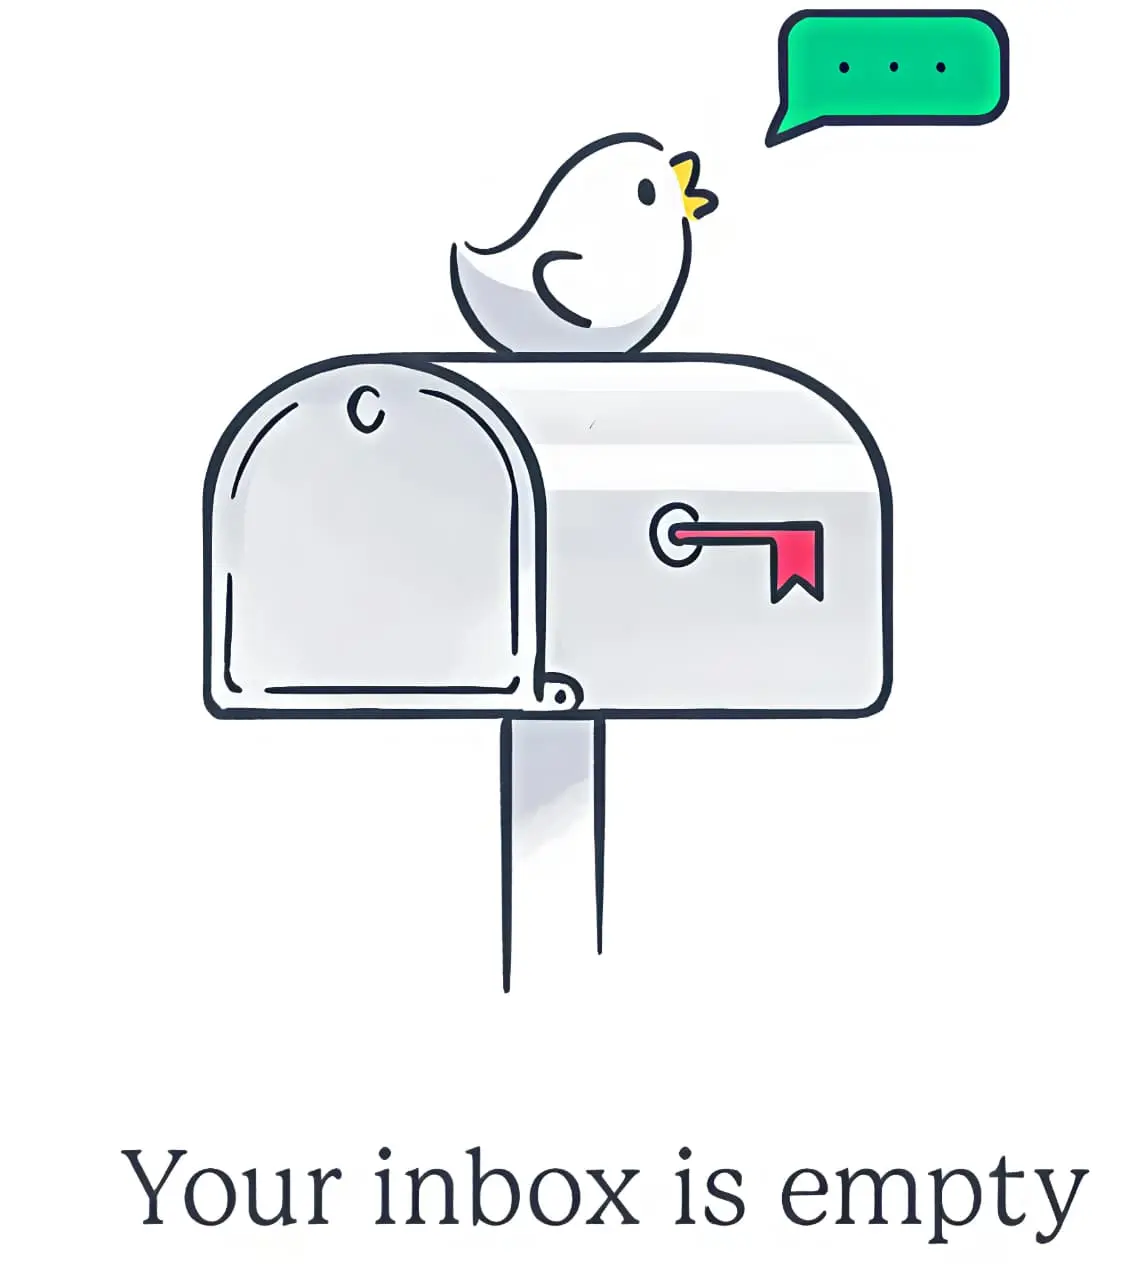
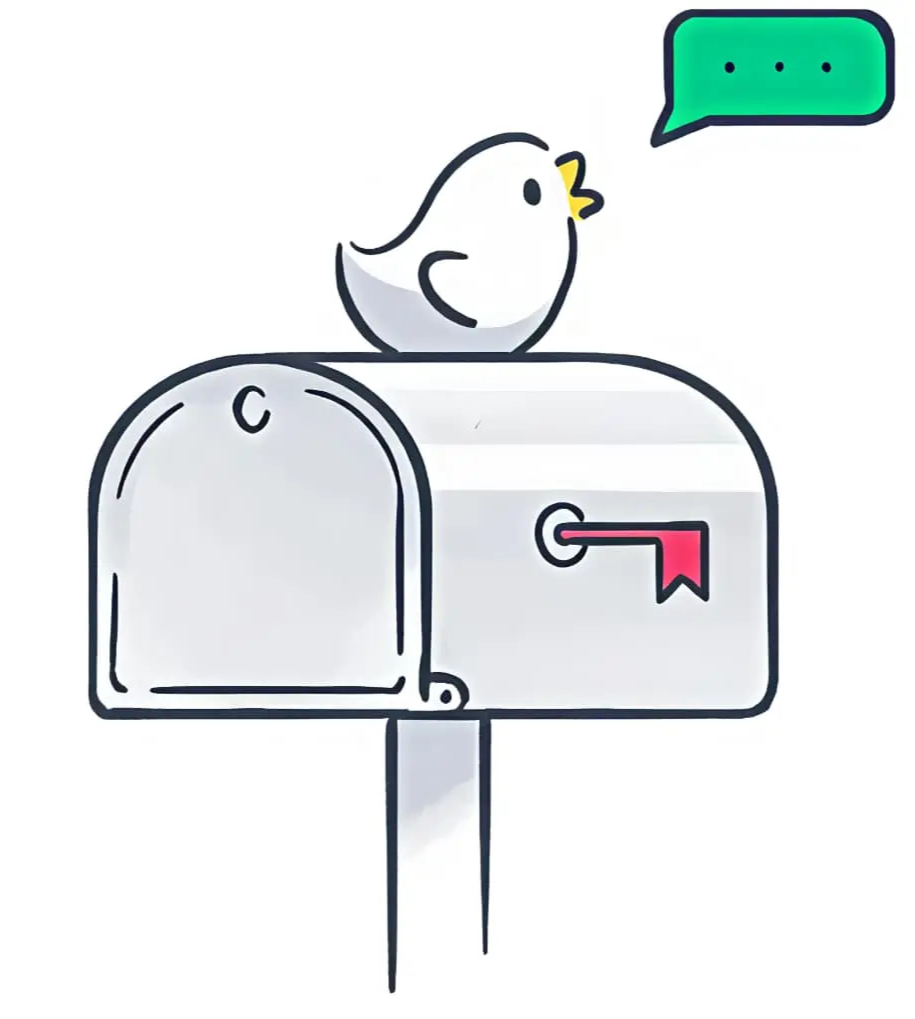
feat: add user feedback messages for empty drafts and tracked emails

diff --git a/components/TrackedEmail.tsx b/components/TrackedEmail.tsx
@@ -33,6 +33,7 @@ const TrackedEmail = ({ limit, dashboard }: Props) => {
         return (
             <div className={`flex flex-col justify-center items-center w-full ${dashboard ? "min-h-[40vh]" : "min-h-[60vh]"}`}>
                 <Image src='/no-mail.webp' alt="no-mail" width={200} height={200} />
+                <p className="mt-4 text-gray-700">NeatMail will watch for new mails!</p>
 
             </div>
         )

diff --git a/components/EmailDrafts.tsx b/components/EmailDrafts.tsx
@@ -35,6 +35,7 @@ const DraftEmails = () => {
         return (
             <div className="flex flex-col justify-center items-center w-full min-h-[60vh]">
                 <Image src='/no-mail.webp' alt="no-mail" width={200} height={200} />
+                <p className="mt-4 text-gray-700">No Drafts created yet!</p>
                 
             </div>
         )
